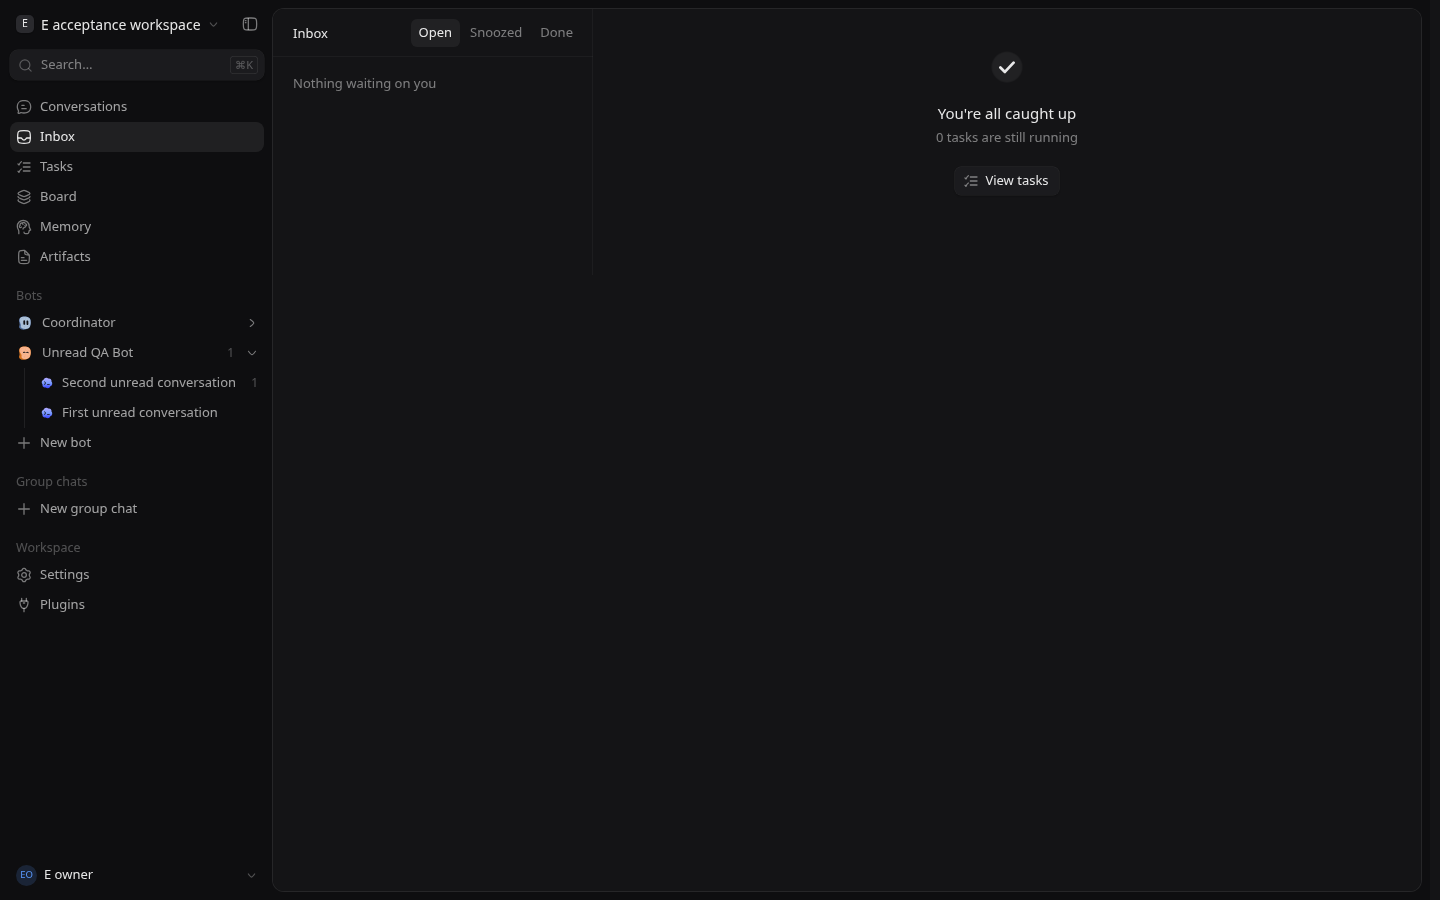
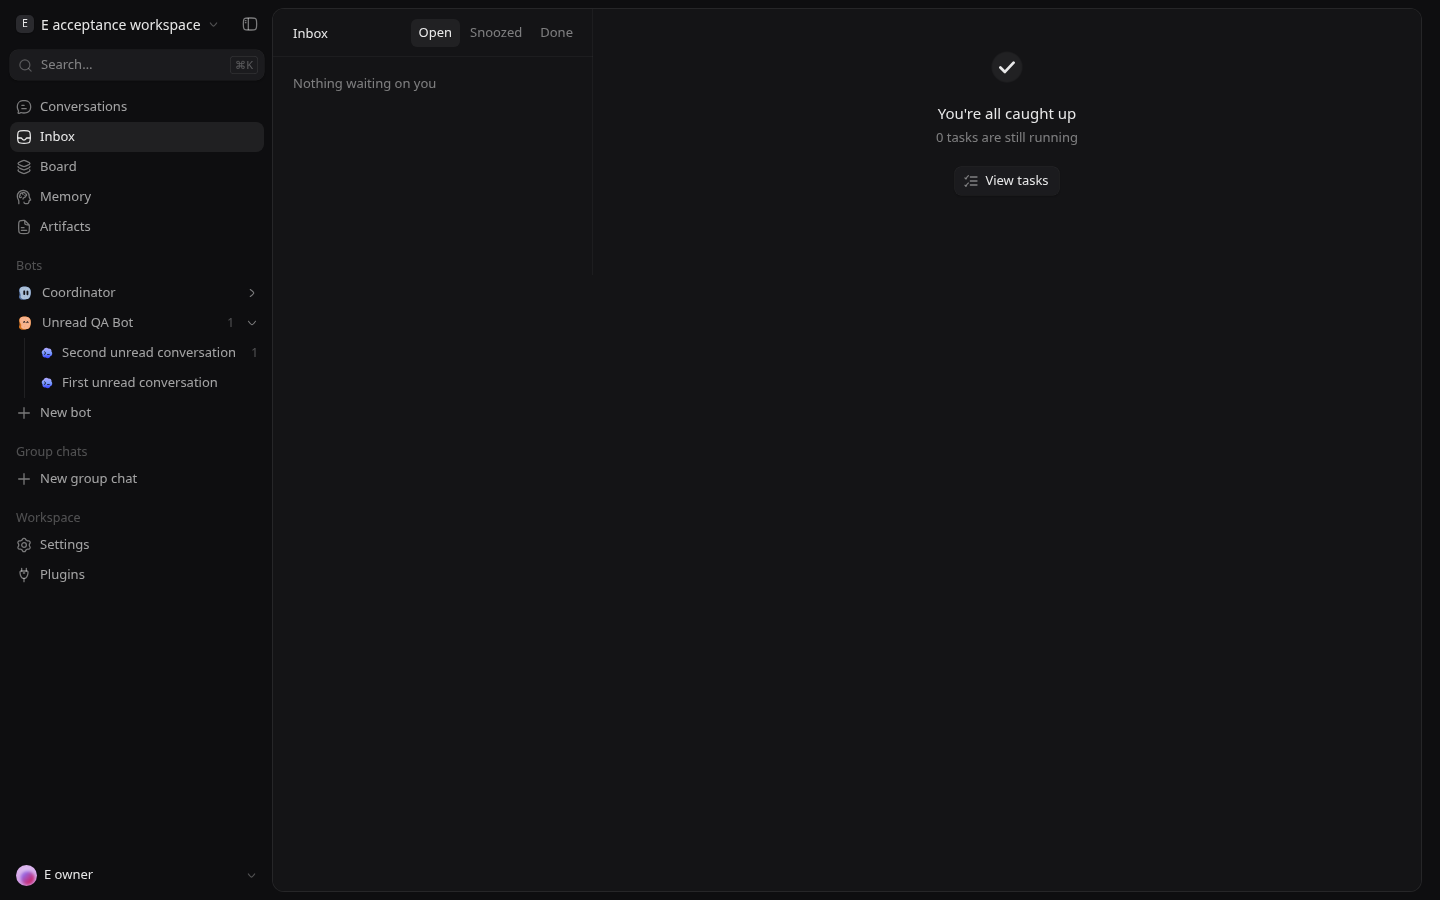
Record paired production renderer, PostgreSQL reads and four real Chromium states on ed7d0187 (#2254)

Changed region(s): [[0.0, 0.1867, 0.1562, 0.6844], [0.0, 0.9644, 0.0312, 0.9956]]

diff --git a/README.md b/README.md
@@ -1,7 +1,9 @@
-# #2254 sidebar unread counts, Vite production renderer with the source API
+# #2254 sidebar receipt on the original conversation prerequisite
 
-The public candidate is ad67901e811ca2dece06b5fcf892e3ddb516535c and the private candidate is 4d5c54bab36cd5284c1788f3f743e09280fab8df. The official production Vite renderer built on cloud Linux 20:03:23–20:04:13 UTC on 2026-11-14 (180 actions, 247 exports, zero server modules). Its fingerprint is 9128ee662a294f04ab156cfc401800263a94b402227fcf672d4fdeb18ae4a6c2. The source API ran real route implementations behind a loopback HTTP adapter. The matching production Nitro candidate had not provided a completed package when these images were captured.
+Public #2268 ed7d01878d49563c99bc0ced1484b91d9f8be6ba paired with the scoped, immutable original #131 + #132 private verification revision d4e39617442955c36b6698897d548a74203f015b. The private combination adds only the public-facing count behavior and its existing mounted fixture to original private #131. Its normal private merge SHA is tracked separately at #132.
 
-Chromium 153.0.8010.0 exercised two authenticated users in an isolated PostgreSQL 17 workspace 20:11:07–20:11:46 UTC. The Member received 404 for the Owner's unread write. In each of the four captured browser configurations, the Owner's two unread conversations produced two child counts and a parent count of two. Opening the first transcript produced the real HTTP 200, its database receipt advanced, the other conversation remained unread, and a reload showed only the second child unread with one parent badge. The captures show the persisted state after reload. The 390-pixel results use a browser viewport. Native device and Electron packaging remain separate checks.
+On 2026-11-14 UTC, the public production Web builder exited 0 at 20:59:48, renderer e8ebf8b740208210aa381dc5cbe01ca5d8e4675734cfcc0347f71cc107e67443. Both complete TypeScript projects and all 251 private tests passed.
 
-The screenshots use disposable fixtures and contain no customer rows. See receipt.json for the individual timestamps, dimensions and SHA-256 values. 
+Chromium 153.0.8010.0 used this production Web bundle and the real application API fetch entry through a disposable same-origin source adapter. Two users signed into the isolated PostgreSQL 17 fixture. Between 21:15:20 and 21:16:03 UTC, the member write returned 404. For each light/dark desktop and phone-sized Web viewport the owner marked two rows unread, opened one, received 200, reloaded, and verified the database and the displayed counts (bot 2 to 1, children [1,1] to [0,1]). The receipt records a SHA-256 digest for each screenshot.
+
+The production Nitro build completed 325 routes, 431 methods and 132 steps (7 workflows). Its final Rolldown process exited 137 at 21:03:33 UTC. No formal Nitro acceptance, native device, model run, deployment or customer data is included in these receipts.
